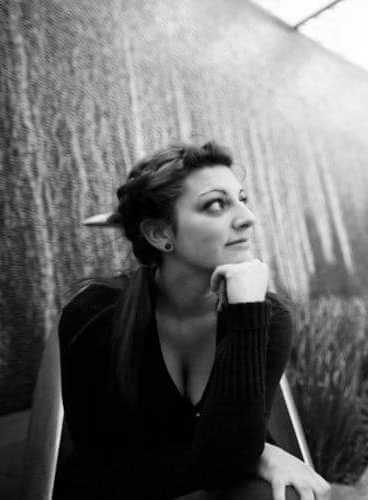
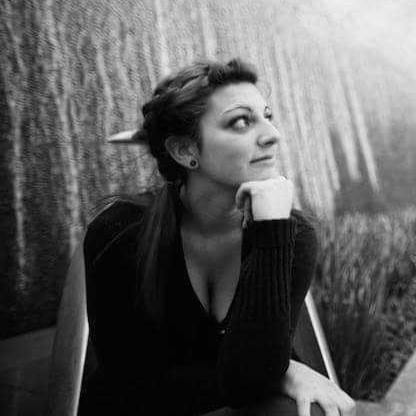
updated content and css

diff --git a/assets/style.css b/assets/style.css
@@ -5,13 +5,27 @@
     font-family:Verdana, Geneva, Tahoma, sans-serif;
 }
 
+:root{
+    --pink: #e5a0bd;
+    --back: #01013f;
+}
+
 header {
-    background-color: #01013f;
+    background-color: var(--back);
     padding: 10px;
-    border-bottom: 4px solid #dd77a1;
+    border-bottom: 8px solid rgb(20, 204, 20);
     text-align: right;
 }
 
+.rainbow {
+    border-top: 8px solid yellow;
+    background-color: rgb(255, 136, 0);
+    height: 24px;
+    width: 100%;
+    border-bottom: 8px solid red;
+    border-bottom-left-radius: 14px;
+    border-bottom-right-radius: 14px;
+}
 ul li {
     display: inline;
     padding: 15px;
@@ -23,49 +37,104 @@ h1 {
     padding: 30px 10px 30px 30px;
     font-size: 4.5em;
     text-transform: uppercase;
-    color:#dd77a1;
+    color:var(--pink);
     font-family:Arial, Helvetica, sans-serif;
     font-style:italic;
 }
 
-img {
+.self {
     border-radius: 75%;
-    padding: 1em;
-    position: fixed;
-    right: 5px;
+    text-align: center;
+    width: 300px;
+    height: 300px;
 }
 
-a {
-    color: #8120c2;
+li a {
+    color:var(--pink);
     text-decoration: none;
 }
 
-a:hover{
-    color: #dd77a1;
+
+
+a {
+    color: var(--back);
+    text-decoration: none;
+}
+
+a:hover {
     cursor: pointer;
+    color: white;
 }
 
 body {
-    background-color: #8120c2;
+    background-color: white;
 }
 
 section {
-    padding: 1.5rem;
-    background-color: #dd77a1;
+    background-color: var(--pink);
     color:#01013f;
-    margin: 30px;
-    width: 60%;
+    font-weight: bolder;
+    margin: 50px;
     align: right;
     border-radius: 14px;
-}
-
-h2 {
-    margin-bottom: 10px;
+    position: relative;
 }
 
 footer {
+    background-color: var(--back);
+    color: white;
+    text-align: center;
+    height: 30px;
+    border-top: 8px solid rgb(20, 204, 20);
+}
 
-}@media screen and (max-width: 992px) {
+.rainbowfoot {
+    border-bottom: 8px solid yellow;
+    background-color: rgb(255, 136, 0);
+    height: 24px;
+    width: 100%;
+    border-top: 8px solid red;
+    border-top-left-radius: 14px;
+    border-top-right-radius: 14px;
+}
+
+.form {
+    display: block;
+}
+
+.title {
+    text-align: center;
+    position: absolute;
+    padding: 10px 10px 15px 10px;
+    top: -30px;
+    background-color: var(--pink);
+    border-radius: 14px;
+}
+
+.screenshot {
+    max-width: 400px;
+    height: auto;
+}
+
+.aboutcard {
+    display: flex;
+    flex: 1 0 0;
+    flex-wrap: wrap;
+    padding: 1.5rem;
+    margin-bottom: 1.5rem;
+    justify-content: space-evenly;
+}
+
+.section {
+    display: flex;
+    flex-wrap: wrap;
+    flex: 1 0 0;
+    padding: 1.5rem;
+    margin-bottom: 1.5rem;
+}
+
+
+@media screen and (max-width: 992px) {
     img {
         size: 50%;
     }

diff --git a/index.html b/index.html
@@ -18,28 +18,62 @@
                 <li><a href="#contact">Contact</a></li>                
             </ul>
         </nav>
+        
     </header>
 
     <main>
-        <img src="./assets/images/Me.jpg" alt="gorgeous coder"/>
-        
+        <div class="rainbow">
+            <div></div>
+        </div>
 
-        <section>
-            <h2 id="about">About Me</h2>
-            <p>I am a Junior Developer based in St. Paul, MN. While I am new to building the web, I quickly dug in to coding at the University of Minnesota's Coding Bootcamp. I've worked directly with my clientbase for years and have grown a talent for understanding what people are asking for before they realize it. I'm still learning and growing, but I look forward the challenge. </p>
+        <section class="section">
+
+            <h2 class= "title" id="about">About Me</h2>
+
+            <div class="aboutcard">            
+                <img class="self" src="./assets/images/Me.jpg" alt="gorgeous coder"/>            
+            </div>
+            
+            <div class="aboutcard">
+                <p>I am a Junior Developer based in St. Paul, MN. I am new to building the web, but 
+                I quickly dug in to coding at the University of Minnesota's Coding Bootcamp. 
+                Prior to coding, I've worked directly with my clientbase for years and have grown a talent for 
+                understanding what people are asking for before they realize it. I'm still learning and growing, 
+                but I look forward the challenge. </p>
+            </div>
+            
         </section>
 
-        <section>
-            <h2 id="port">Portfolio</h2>
+        <section class="section">
+            
+            <h2 class= "title" id="port">Portfolio</h2>
+            
+            <a href="https://github.com/najuasaad/code_refactor"><img class="screenshot" src="./assets/images/horiseon.png" alt="Portfolio Example Page"/></a>
+
+
         </section>
 
-        <section>
-            <h2 id= "contact">Contact</h2>
+        <section class= "section">
+            
+            <h2 class= "title" id= "contact">Contact</h2>
+
+            <p>
+                <a class="contact" href="https://github.com/najuasaad/">Github</a>
+                <a class="contact" href= "mailto: najuasaad@gmail.com">E-mail</a>
+                <a class="contact" href="https://twitter.com/najuasaad?lang=en">Twitter</a>
+            </p>
+                
         </section>
+
+        <div class="rainbowfoot"></div>
+
     </main>
 
     <footer>
-
+       
+        <span>&copy;Najua Saad 2021</span>
+        
     </footer>
+
 </body>
 </html>
